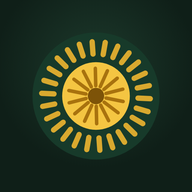
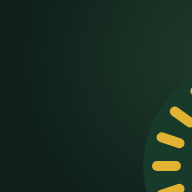
🌼 Знак: квітка в кільці променів
- той самий темно-зелений кружок і кільце променів, а всередині замість диска — п'ять пелюсток глечиків жовтих
- два варіанти: icon.svg (від 48 px) і icon-s.svg (вкладка браузера й шапка — менше променів, без тичинок)
- іконки застосунку 180 / 192 / 512 і картинка для посилань og.png — з новим знаком
- у шапці знак живий: поки ефір грає, кільце променів ледь пульсує (кроком, як решта прикрас)

Changed region(s): [[0.1562, 0.1875, 0.8125, 0.8125], [0.75, 0.4062, 1.0, 1.0]]

diff --git a/web/index.html b/web/index.html
@@ -22,7 +22,8 @@
 <!-- Підтвердження власника в Google Search Console: не прибирати, Google перевіряє його й надалі. -->
 <meta name="google-site-verification" content="smYfGI9p3Vq_vVpdUlioWLcNolk0kJa4TWAkQruSCGU">
 <script type="application/ld+json">{"@context":"https://schema.org","@type":"WebSite","name":"Глечики","alternateName":"Hlechyky","url":"https://hlechyky.pp.ua/","inLanguage":"uk"}</script>
-<link rel="icon" href="/static/icon.svg" type="image/svg+xml">
+<!-- Вкладка браузера — дрібний варіант знака (менше променів): великий на 16 px зливався в цятку. -->
+<link rel="icon" href="/static/icon-s.svg" type="image/svg+xml">
 <!-- «На головний екран» з телефона — як застосунок: своя іконка, темна смуга зверху, без адресного рядка. -->
 <link rel="manifest" href="/manifest.webmanifest">
 <meta name="theme-color" content="#0f1f18">
@@ -54,7 +55,7 @@
 <body class="route-home">
 <header>
   <!-- Знак веде на головну — «Зараз у Глечиках» (web/home.js). -->
-  <a class="brand" href="#home" title="Головна — що зараз у Глечиках"><img src="/static/icon.svg" alt=""><span id="siteName">Глечики</span></a>
+  <a class="brand" href="#home" title="Головна — що зараз у Глечиках"><svg class="brand-mk" viewBox="0 0 64 64" aria-hidden="true"><circle cx="32" cy="32" r="31" fill="#173a2a"/><g class="mk-rays" stroke="#e2b233" stroke-width="4.4" stroke-linecap="round"><line x1="32.00" y1="10.00" x2="32.00" y2="5.00"/><line x1="43.00" y1="12.95" x2="45.50" y2="8.62"/><line x1="51.05" y1="21.00" x2="55.38" y2="18.50"/><line x1="54.00" y1="32.00" x2="59.00" y2="32.00"/><line x1="51.05" y1="43.00" x2="55.38" y2="45.50"/><line x1="43.00" y1="51.05" x2="45.50" y2="55.38"/><line x1="32.00" y1="54.00" x2="32.00" y2="59.00"/><line x1="21.00" y1="51.05" x2="18.50" y2="55.38"/><line x1="12.95" y1="43.00" x2="8.62" y2="45.50"/><line x1="10.00" y1="32.00" x2="5.00" y2="32.00"/><line x1="12.95" y1="21.00" x2="8.62" y2="18.50"/><line x1="21.00" y1="12.95" x2="18.50" y2="8.62"/></g><g transform="translate(32 32.3) scale(.62)" fill="#f4c542"><circle cx="0" cy="-12.5" r="12.3"/><circle cx="11.89" cy="-3.86" r="12.3"/><circle cx="7.35" cy="10.11" r="12.3"/><circle cx="-7.35" cy="10.11" r="12.3"/><circle cx="-11.89" cy="-3.86" r="12.3"/><circle r="12"/></g><circle cx="32" cy="32" r="4.4" fill="#8a5a0c"/></svg><span id="siteName">Глечики</span></a>
   <nav class="vswitch" id="mainNav" aria-label="Розділи">
     <button data-route="efir" class="on" title="Що зараз грає, черга, закинути пісню — клавіша 1"><span class="ico">📻</span><span class="lbl">Ефір</span></button>
     <button data-route="lib" title="Що вже було, улюблене, плейлисти — клавіша 2"><span class="ico">🎵</span><span class="lbl">Бібліотека</span></button>

diff --git a/web/static/polyva.css b/web/static/polyva.css
@@ -270,3 +270,9 @@ header::after { content: ''; position: absolute; left: 0; right: 0; top: 100%; h
 
 /* ---- емодзі картинками (web/emo.js): той самий розмір і місце, що в рідного емодзі ---- */
 img.emo { display: inline-block; width: 1.18em; height: 1.18em; vertical-align: -.22em; flex: none; user-select: none; }
+
+/* ---- знак у шапці: квітка в кільці променів; поки ефір грає, кільце ледь пульсує — стан видно й без плеєра ---- */
+header .brand .brand-mk { display: block; flex: none; width: 30px; height: 30px; }
+body.playing header .brand .mk-rays { animation: mk-rays 2.4s ease-in-out infinite; }
+@keyframes mk-rays { 50% { opacity: .38; } }
+@media (prefers-reduced-motion: reduce) { body.playing header .brand .mk-rays { animation: none; } }

diff --git a/web/app.js b/web/app.js
@@ -545,7 +545,9 @@
       else if (playState === 'connecting') set('primary busy', '<span class="spin"></span>', 'Врубаю…');
       else set('live', '<span class="dot"></span><span class="stop"></span>', 'В ефірі — вирубити звук');
     };
+    document.body.classList.toggle('playing', playState === 'live');   // знак у шапці оживає (static/polyva.css, .mk-rays)
     paint($('playBtn'), '');
+
     document.querySelectorAll('.bigplay').forEach((big) => paint(big, 'bigplay '));
   }
   // сервер записує, хто слухав кожен трек (вкладка «Рейтинг»); ETS2 і VLC він бачить лише числом у потоці

diff --git a/web/padel/index.html b/web/padel/index.html
@@ -6,7 +6,7 @@
 <meta name="theme-color" content="#0f1f18">
 <title>Падельня · Глечики</title>
 <meta name="description" content="Падельня Глечиків: табло для падела, турніри американо й мексикано, збори на гру, хто кому скільки за корт.">
-<link rel="icon" href="/static/icon.svg" type="image/svg+xml">
+<link rel="icon" href="/static/icon-s.svg" type="image/svg+xml">
 <link rel="manifest" href="/manifest.webmanifest">
 <link rel="stylesheet" href="/padel/padel.css">
 <link rel="stylesheet" href="/padel/board.css">

diff --git a/web/pictionary-album/index.html b/web/pictionary-album/index.html
@@ -5,7 +5,7 @@
 <meta name="viewport" content="width=device-width, initial-scale=1, viewport-fit=cover">
 <title>Альбом Піктіонарі — Глечики</title>
 <meta name="description" content="Найкращі малюнки з партій у Піктіонарі на Глечиках: слово, художник, серця.">
-<link rel="icon" href="/static/icon.svg" type="image/svg+xml">
+<link rel="icon" href="/static/icon-s.svg" type="image/svg+xml">
 <link rel="stylesheet" href="/static/style.css">
 <link rel="stylesheet" href="album.css">
 </head>

diff --git a/web/krok.js b/web/krok.js
@@ -30,6 +30,7 @@
     'recpulse', // запис голосу
     'sky-rain', 'sky-snow', // дощ і сніг у сцені «Обрій» на головній (static/polyva.css)
     'play-rings', // кола від ▶, поки ефір грає
+    'mk-rays', // кільце променів знака в шапці — теж поки ефір грає
   ]);
   const STEP_MS = 100;
   const list = new Set();
